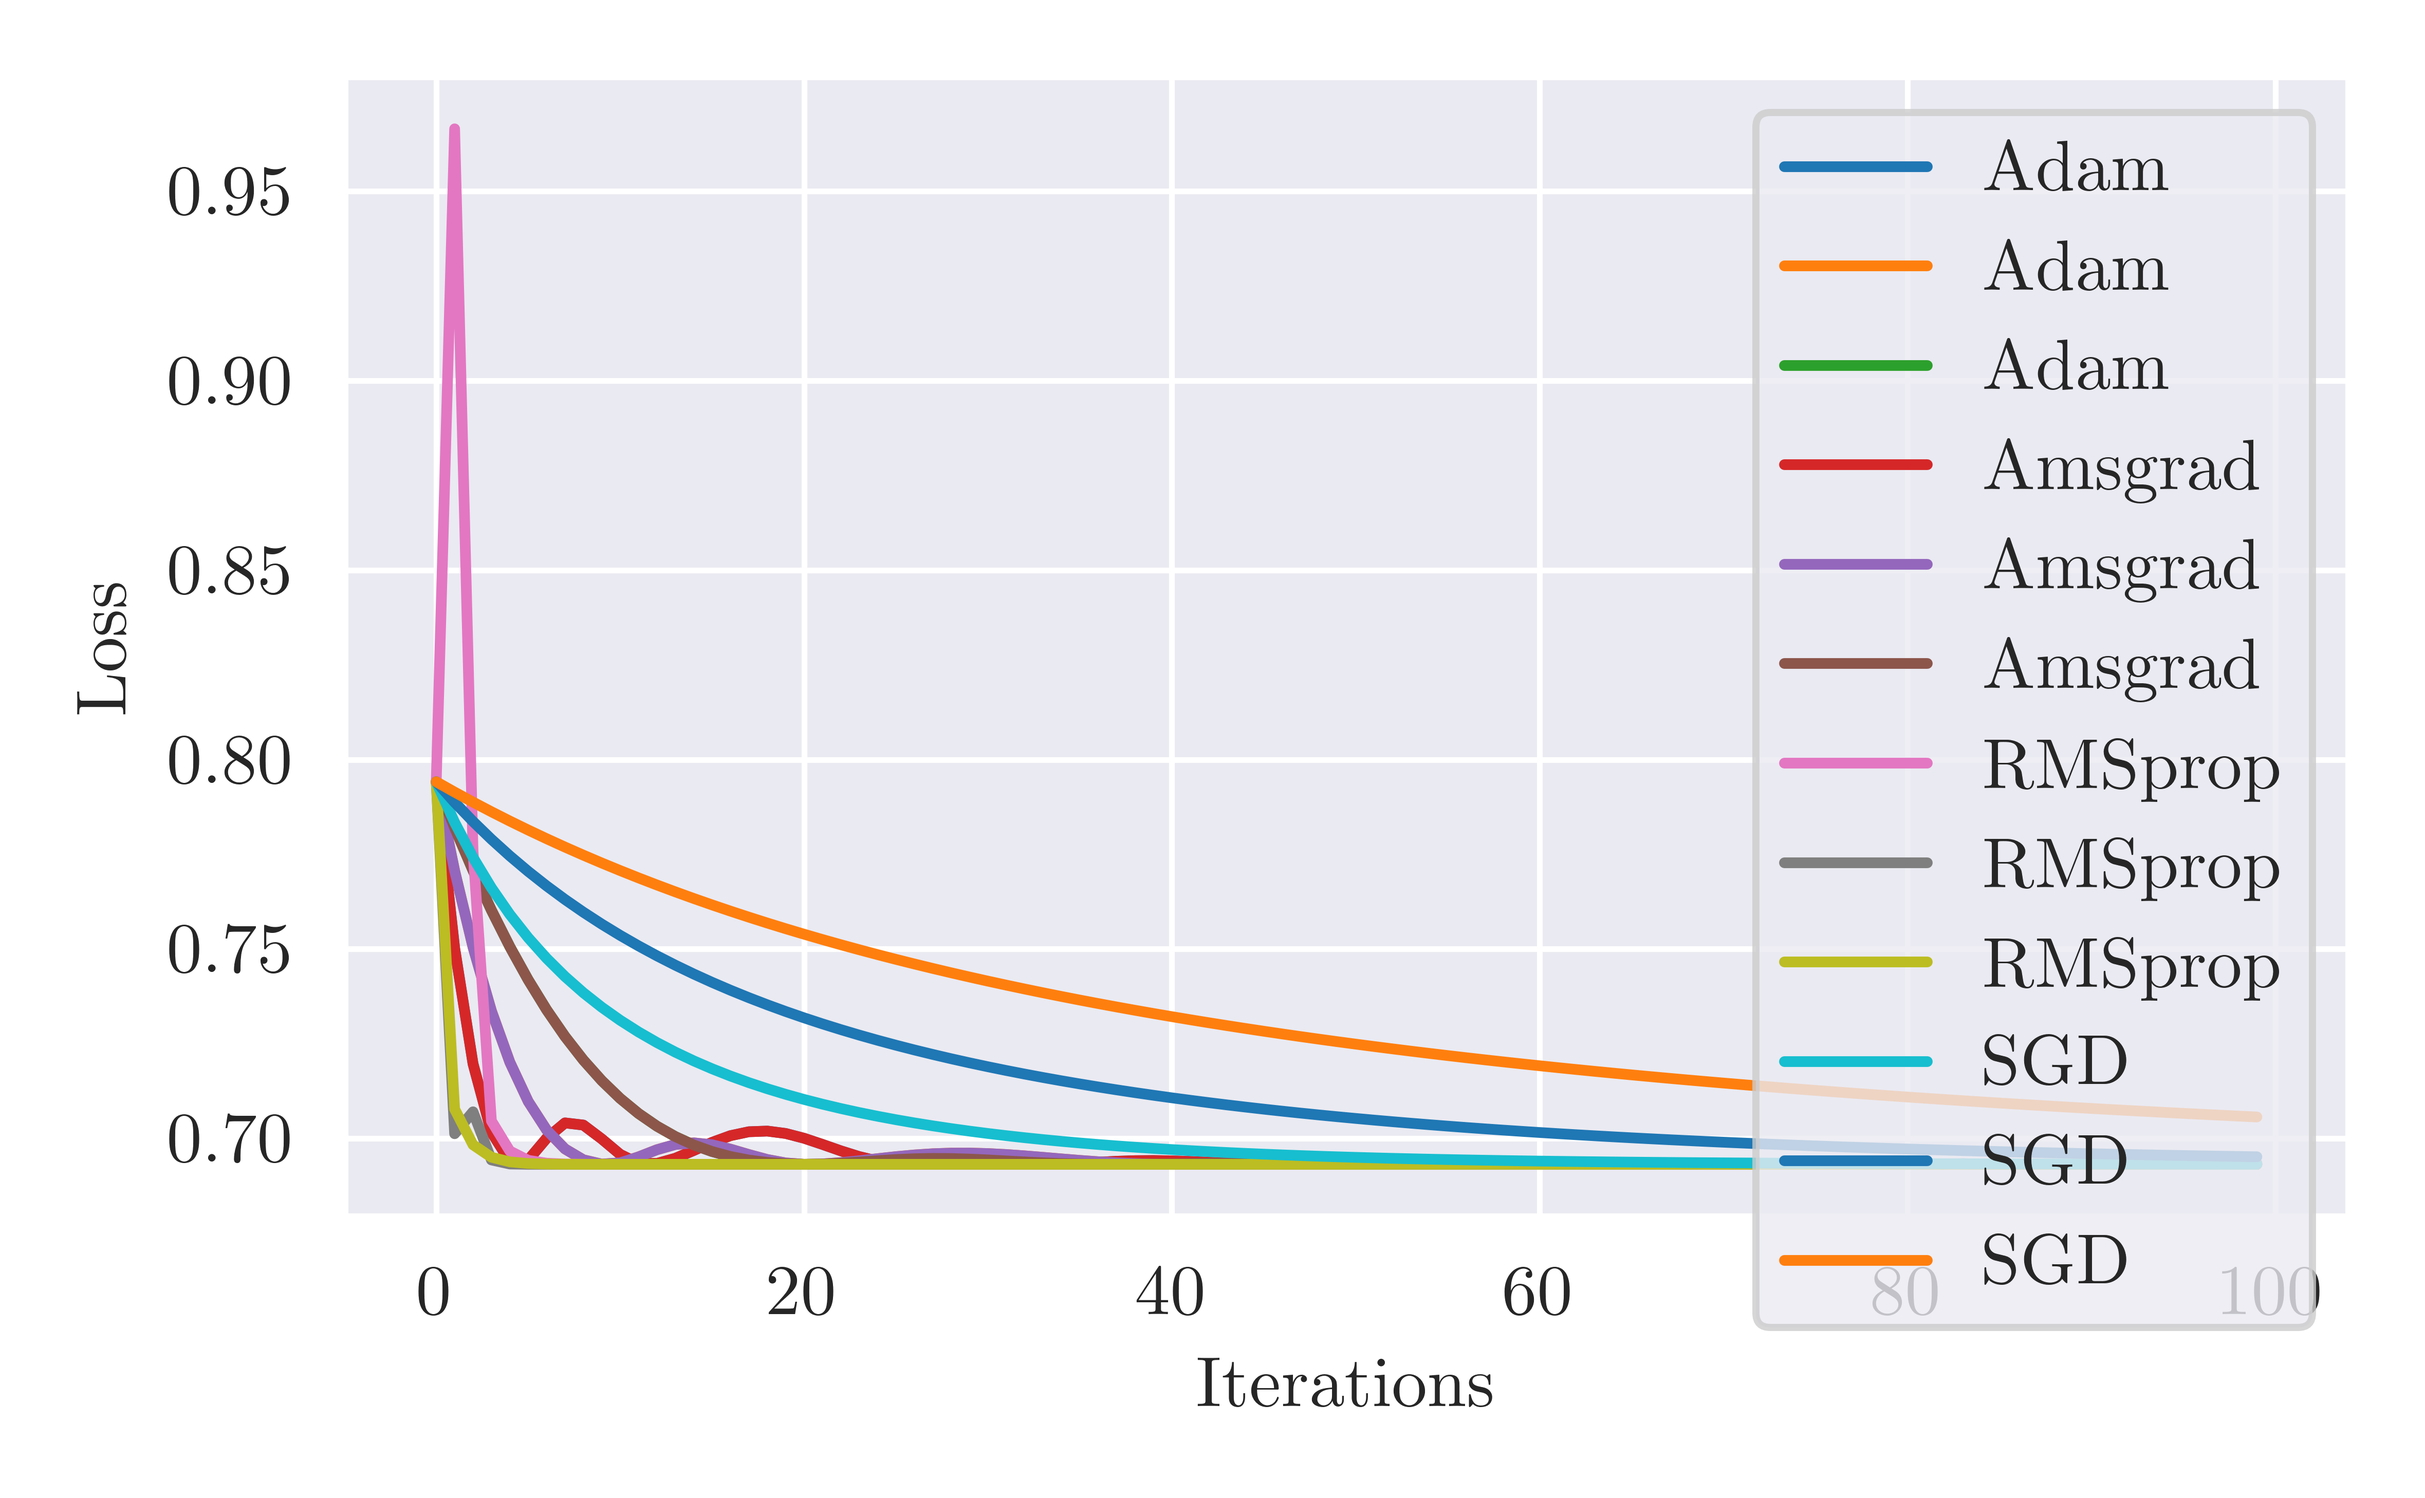
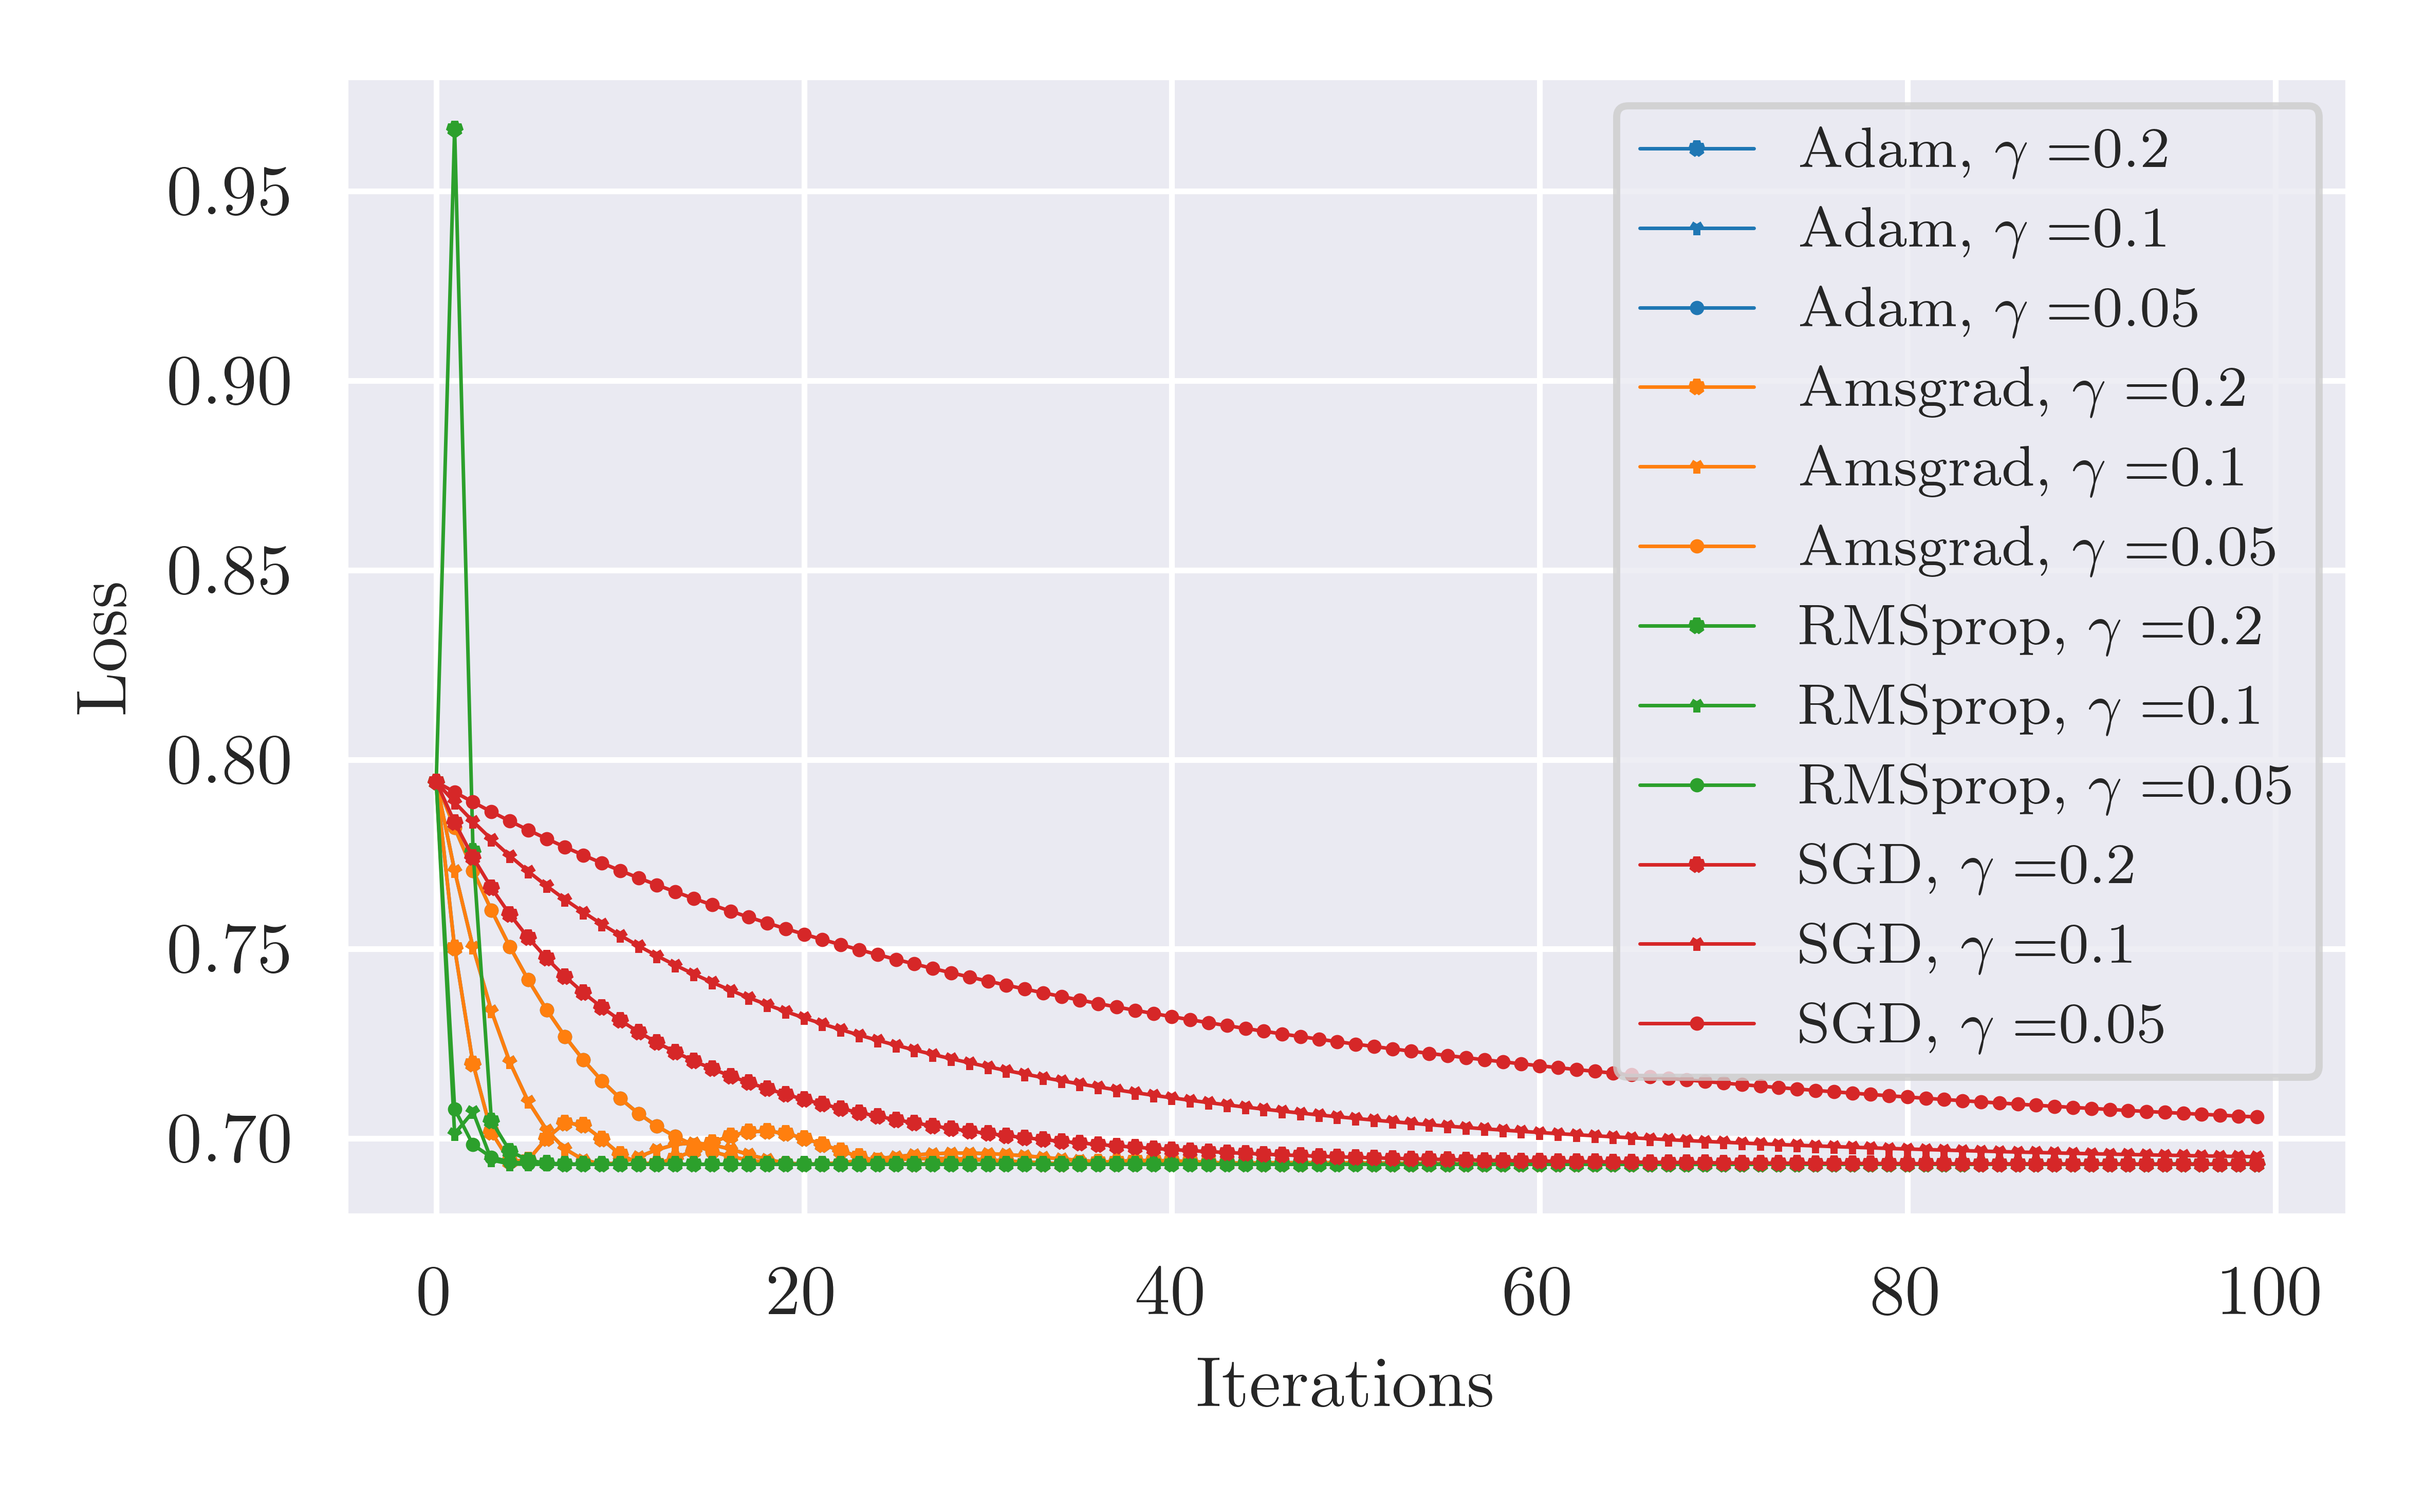
Working on it

Changed region(s): [[0.1558, 0.0624, 0.9657, 0.905], [0.3427, 0.6241, 0.405, 0.6553]]

diff --git a/src/analyzer.py b/src/analyzer.py
@@ -1,5 +1,6 @@
 
 from cProfile import label
+from random import sample
 import numpy as np
 import matplotlib.pyplot as plt
 import seaborn as sns
@@ -160,11 +161,14 @@ def plot_optim_search():
                 ['Amsgrad','0.2','0.9','0.999'], ['Amsgrad','0.1','0.9','0.999'],['Amsgrad','0.05','0.9','0.999'],['Amsgrad','0.1','0.7','0.99'],
                 ['RMSprop','0.2','0.99','0'], ['RMSprop','0.1','0.99','0'], ['RMSprop','0.05','0.99','0'], ['RMSprop','0.1','0.7','0'],
                 ['SGD','0.2','0','0'],  ['SGD','0.1','0','0'],  ['SGD','0.05','0','0']]
+
     else:
         labels=[['Adam','0.2','0.9','0.999'],['Adam','0.1','0.9','0.999'], ['Adam','0.05','0.9','0.999'], 
             ['Amsgrad','0.2','0.9','0.999'], ['Amsgrad','0.1','0.9','0.999'],['Amsgrad','0.05','0.9','0.999'],
             ['RMSprop','0.2','0.99','0'], ['RMSprop','0.1','0.99','0'], ['RMSprop','0.05','0.99','0'],
             ['SGD','0.2','0','0'],  ['SGD','0.1','0','0'],  ['SGD','0.05','0','0']]
+        #labels=[['Adam','0.2','0.9','0.999'],['Adam','0.1','0.9','0.999'], ['Adam','0.05','0.9','0.999']]
+
     
     """
     names_loss=['Adamloss_lr0.1m10.9m20.999lossH1_real', 'Adamloss_lr0.2m10.9m20.999lossH1_real', 'Adamloss_lr0.05m10.9m20.999lossH1_real',
@@ -180,7 +184,6 @@ def plot_optim_search():
                 'RMSproploss_lr0.2m10.99m20normH1_real', 'RMSproploss_lr0.05m10.99m20normH1_real', 'SGDloss_lr0.1m10m20normH1_real',
                 'SGDloss_lr0.2m10m20normH1_real', 'SGDloss_lr0.05m10m20normH1_real']
     """
-
     for i in labels:
         arrays_loss.append(np.load('results/generative_learning/arrays/search/'+i[0]+'loss_lr'+i[1]+'m1'+i[2]+'m2'+i[3]+'lossH1_real'+'.npy', allow_pickle=True))
         arrays_norm.append(np.load('results/generative_learning/arrays/search/'+i[0]+'loss_lr'+i[1]+'m1'+i[2]+'m2'+i[3]+'normH1_real'+'.npy', allow_pickle=True))
@@ -188,15 +191,43 @@ def plot_optim_search():
     epoch=range(len(arrays_loss[0]))
 
     plt.figure()
-    for j, i in enumerate(arrays_loss):
-        plt.plot(epoch, i, label=labels[j][0])#+r'$\gamma='+labels[j][1])
+    
+    #plt.rcParams['legend.fontsize'] = 12
 
-    #plt.plot(range(0,len(lr)), lr, label=r'$H_2$')
+    colors = ["tab:blue","tab:orange","tab:green","tab:red", "tab:purple", "tab:olive"]
+    ticks = ["*","1",".","s", "D"]
+
+    cat=[]
+    for i in labels:
+        temp=[]
+        if i[0]=='Adam':
+            temp.append(0)
+        elif i[0]=='Amsgrad':
+            temp.append(1)
+        elif i[0]=='RMSprop':
+            temp.append(2)
+        elif i[0]=='SGD':
+            temp.append(3)
+        
+        if i[1]=='0.2':
+            temp.append(0)
+        elif i[1]=='0.1':
+            temp.append(1)
+        elif i[1]=='0.05':
+            temp.append(2)
+        
+        cat.append(temp)
+    
+    plt.figure()
+    for j, i in enumerate(arrays_loss):
+        plt.plot(epoch, i, color=colors[cat[j][0]],marker=ticks[cat[j][1]],label=labels[j][0]+', '+r'$\gamma=$'+labels[j][1], linewidth=0.5, ms=2)
+
     plt.xlabel('Iterations')
     plt.ylabel('Loss')
     #plt.yscale("log")
 
-    plt.legend()
+    plt.legend(fontsize=5, prop={'size': 8})
+    #plt.legend()
     plt.tight_layout()
     plt.savefig('results/generative_learning/test_loss.png')
     plt.clf
